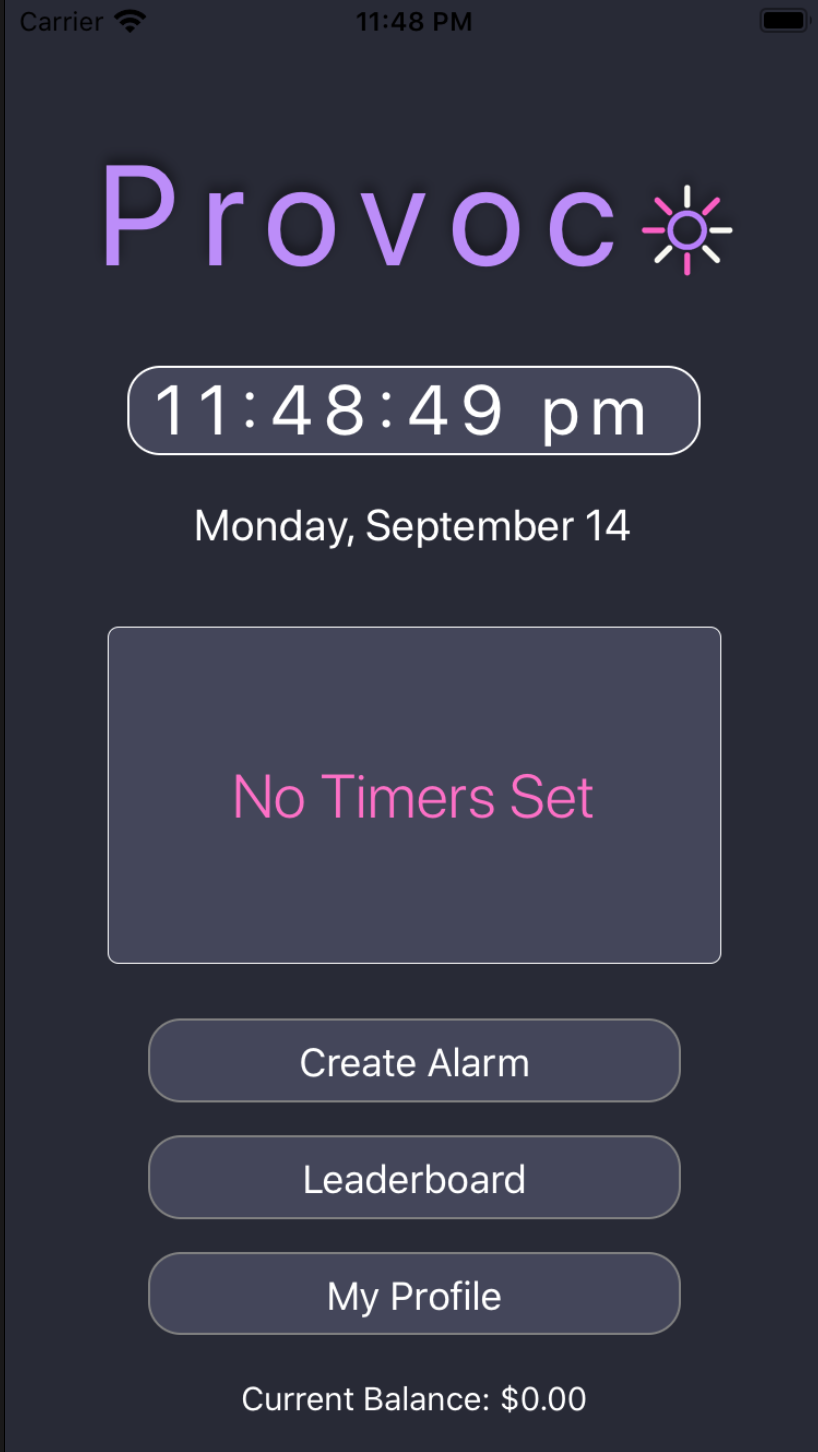
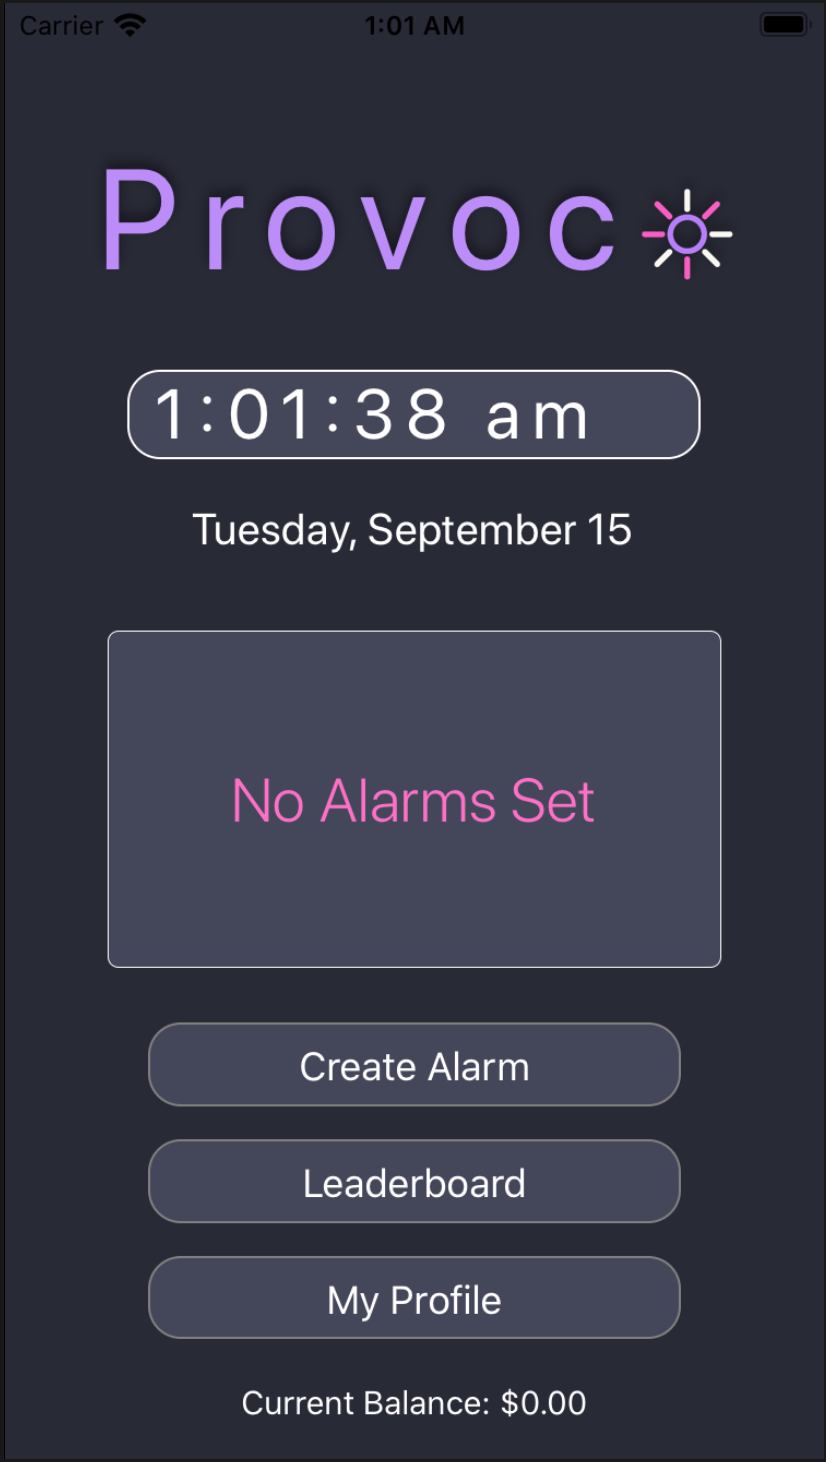
minor change to status name and readme image

diff --git a/App.tsx b/App.tsx
@@ -64,7 +64,7 @@ export default class LandingPage extends Component {
                 <Text style = {styles.clockInfo}> {this.state.currentTime} </Text>
                 <Text style = {styles.dateInfo}> {this.state.currentDay} </Text>
                 <View style = {styles.mainTimer}> 
-                    <Text style = {styles.timerStatus}> No Timers Set </Text>
+                    <Text style = {styles.timerStatus}> No Alarms Set </Text>
                 </View>
 
                 <View style = {styles.buttonWrapper}>
